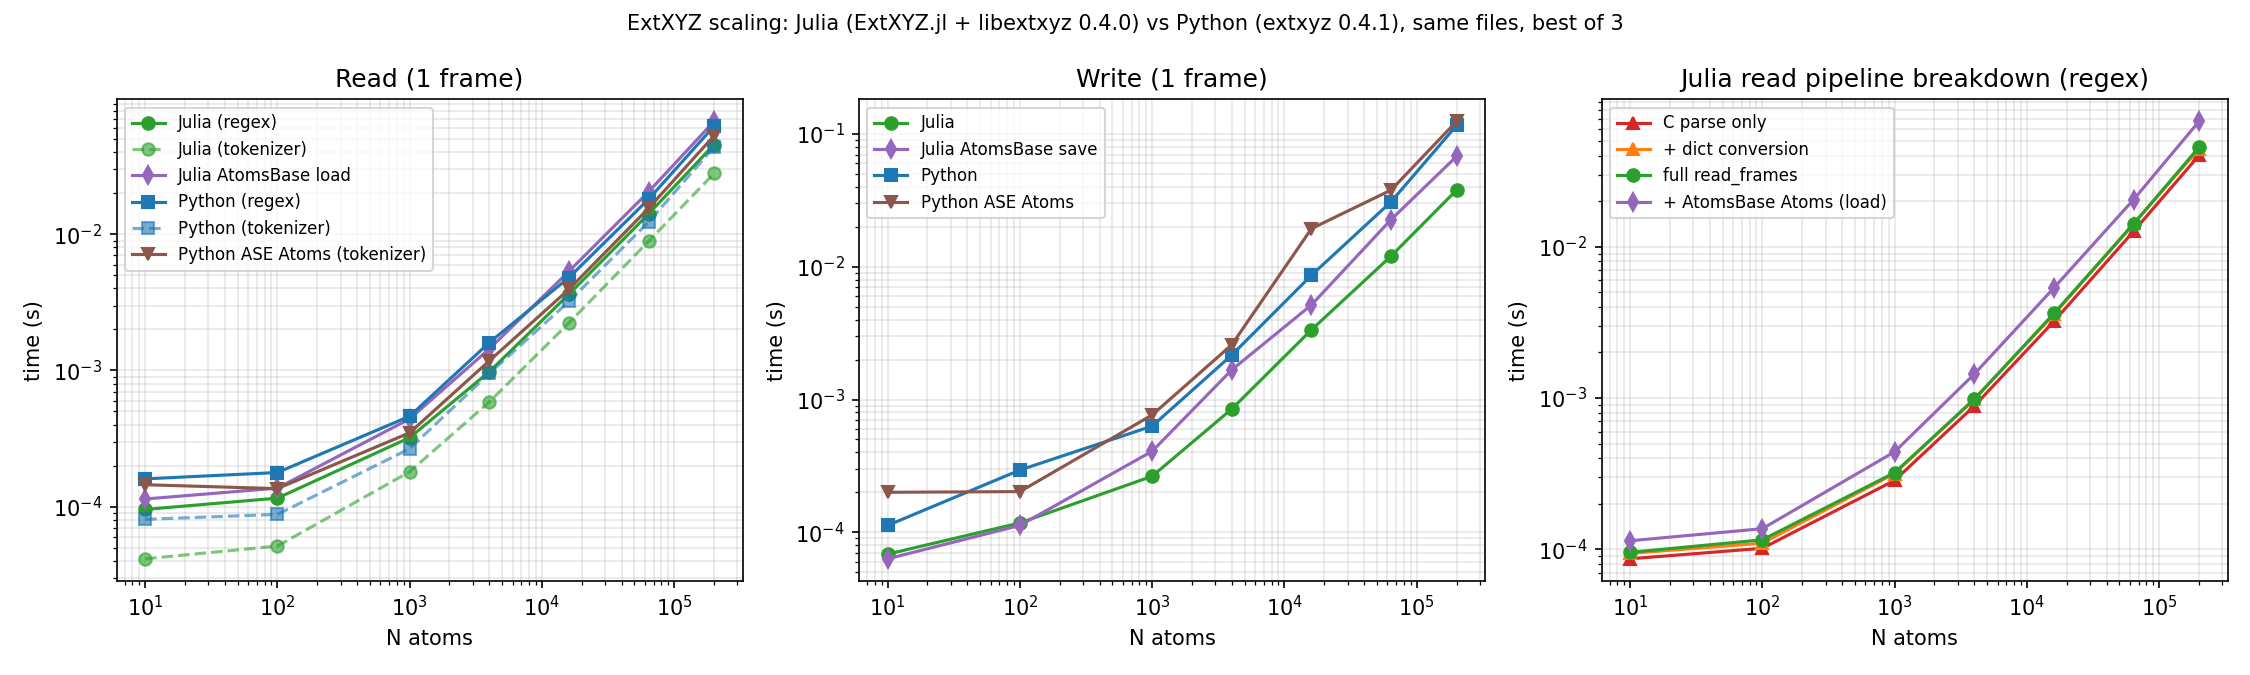
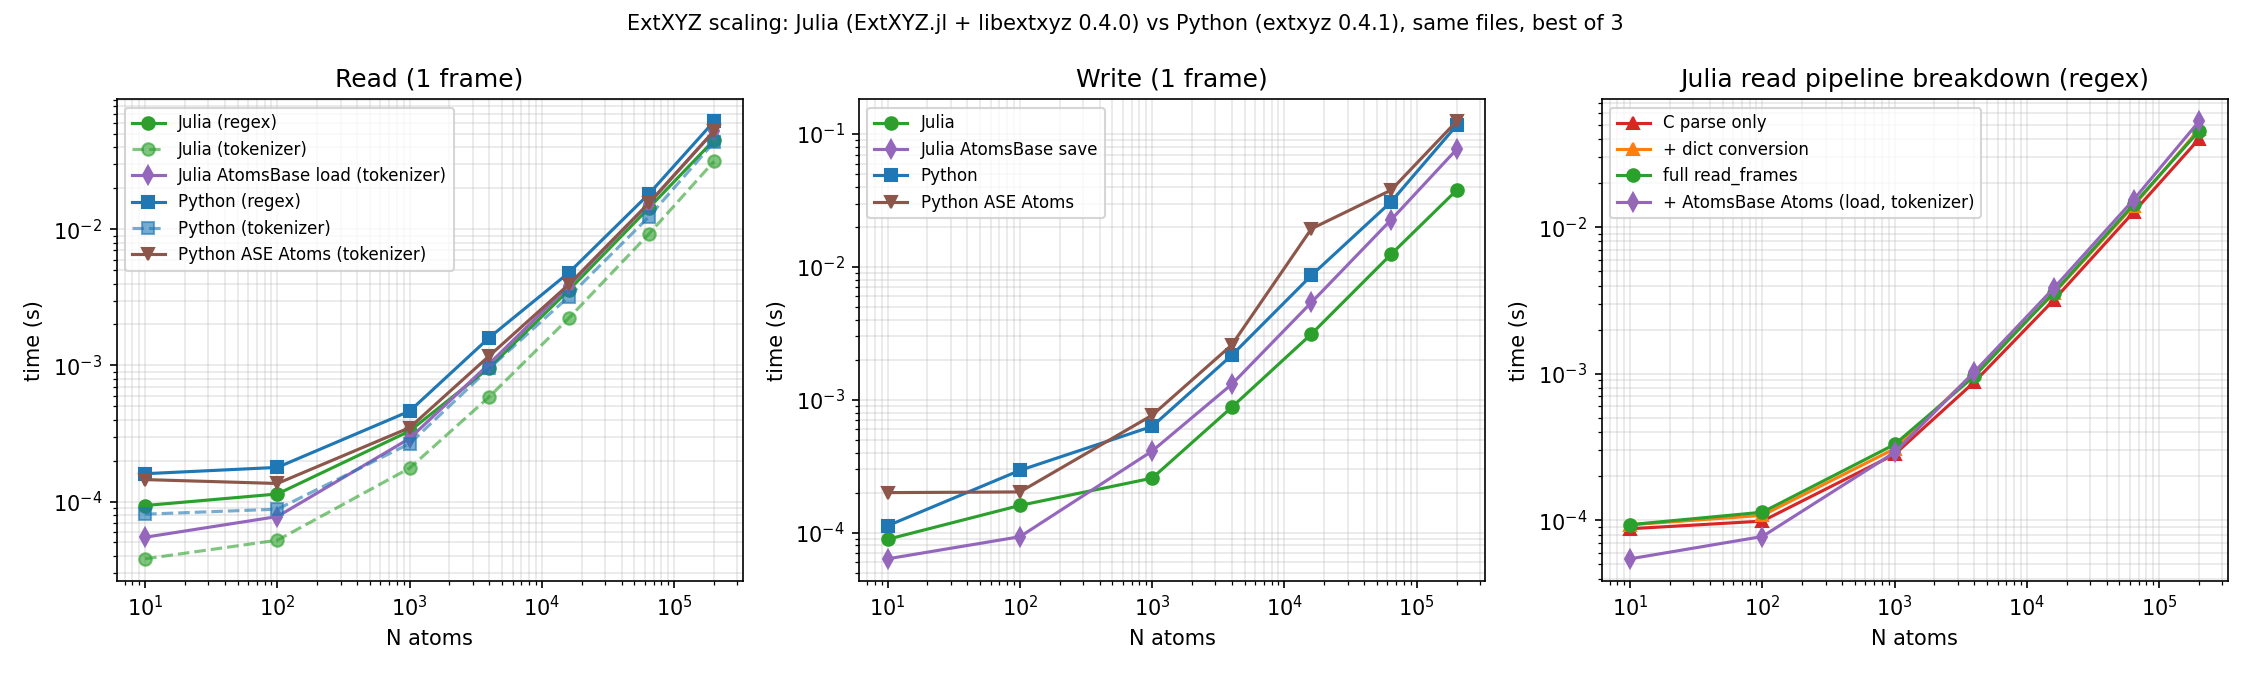
Make the whitespace tokenizer the default read parser
use_regex now defaults to false at every level (read_frame,
read_frames, iread_frames, and hence ExtXYZ.load), matching the
ase-extxyz plugin default on the Python side. The stricter PCRE2
regex parser remains available with use_regex=true. Roughly 1.6x
faster reads by default; benchmark and plot regenerated.

diff --git a/benchmark/plot_scaling.py b/benchmark/plot_scaling.py
@@ -19,7 +19,7 @@ fig, axes = plt.subplots(1, 3, figsize=(15, 4.5))
 ax = axes[0]
 ax.loglog(n, jl["read_regex_s"], "o-", color="C2", label="Julia (regex)")
 ax.loglog(n, jl["read_tok_s"], "o--", color="C2", alpha=0.6, label="Julia (tokenizer)")
-ax.loglog(n, jl["load_s"], "d-", color="C4", label="Julia AtomsBase load")
+ax.loglog(n, jl["load_s"], "d-", color="C4", label="Julia AtomsBase load (tokenizer)")
 ax.loglog(n, py["read_regex_s"], "s-", color="C0", label="Python (regex)")
 ax.loglog(n, py["read_tok_s"], "s--", color="C0", alpha=0.6, label="Python (tokenizer)")
 ax.loglog(n, py["ase_read_s"], "v-", color="C5", label="Python ASE Atoms (tokenizer)")
@@ -44,7 +44,7 @@ ax = axes[2]
 ax.loglog(n, jl["c_parse_s"], "^-", color="C3", label="C parse only")
 ax.loglog(n, jl["dicts_s"], "^-", color="C1", label="+ dict conversion")
 ax.loglog(n, jl["read_regex_s"], "o-", color="C2", label="full read_frames")
-ax.loglog(n, jl["load_s"], "d-", color="C4", label="+ AtomsBase Atoms (load)")
+ax.loglog(n, jl["load_s"], "d-", color="C4", label="+ AtomsBase Atoms (load, tokenizer)")
 ax.set_title("Julia read pipeline breakdown (regex)")
 ax.set_xlabel("N atoms")
 ax.set_ylabel("time (s)")

diff --git a/CLAUDE.md b/CLAUDE.md
@@ -32,7 +32,7 @@ Two source files, two layers:
 - `DictEntry` is a Julia mirror of the C library's linked-list dict struct. `convert` methods translate in both directions between `Ptr{DictEntry}` and the Julia `Dict{String,Any}` frame representation. ABI subtlety: per-atom string columns read from the C library arrive as one contiguous fixed-width NUL-padded buffer (`n_in_row < 0`, cell width `-n_in_row`), while Julia-constructed dicts use the legacy `char**` layout marked by `n_in_row = 0` — both the reader and the C `free_dict` branch on the sign.
 - Reads go through `extxyz_read_ll_opts`, which requires a real (non-NULL) 1024-byte error buffer; `_is_eof_message` distinguishes end-of-file (empty message or all-whitespace natoms line) from genuine parse errors, and `iread_frames` relies on `EOFError` for termination.
 - `__init__` compiles the extxyz key/value grammar once (`_kv_grammar`) for the C parser.
-- Exports: `read_frame`, `read_frames`, `iread_frames` (lazy, Channel-based), `write_frame`, `write_frames`. `write_frames` also accepts a `Channel` for asynchronous writing. Reads take `use_regex::Bool=true` (false = faster tokenizer); writes take `fmt_i`/`fmt_f`/`fmt_b`/`fmt_s` printf-style format overrides via `extxyz_write_ll_fmt`.
+- Exports: `read_frame`, `read_frames`, `iread_frames` (lazy, Channel-based), `write_frame`, `write_frames`. `write_frames` also accepts a `Channel` for asynchronous writing. Reads take `use_regex::Bool=false` (default = fast whitespace tokenizer; `true` = stricter PCRE2 regex parser); writes take `fmt_i`/`fmt_f`/`fmt_b`/`fmt_s` printf-style format overrides via `extxyz_write_ll_fmt`.
 
 **`src/atoms.jl` — AtomsBase layer.** Defines `Atoms{P,Q} <: AbstractSystem{3}` holding two NamedTuples (`atom_data`, `system_data`). Constructors convert from any `AbstractSystem` or from the frame `Dict`; `write_dict` goes back. `ExtXYZ.load`/`ExtXYZ.save` combine the two layers to read/write `Atoms` directly from/to files. Units follow ASE conventions (Å, eV, u; velocity unit is `sqrt(u"eV"/u"u")`). Only types the C layer can represent (integers, floats, strings, and arrays thereof) survive a round-trip; other properties are dropped with a warning. Spatial dimension is hard-coded to 3.
 

diff --git a/README.md b/README.md
@@ -32,9 +32,9 @@ Please open issues/PRs here with suggestions of other packages it would be usefu
 Four key functions are exported: `read_frame()` and `write_frame()` for reading and writing single configurations (snapshots), respectively, and `read_frames()` and `write_frames()` for reading and writing trajectories. Moreover `ExtXYZ.Atoms` provides a datastructure to expose the read configurations in an [AtomsBase](https://github.com/JuliaMolSim/AtomsBase.jl)-compatible manner.
 All read and write functions can work with string filenames, an open `Base.IO` instance or (intended primarily for internal use) a C `FILE*` pointer, stored as a `Ptr{Cvoid}` type.
 
-The read functions accept a `use_regex::Bool=true` keyword: passing `false` selects a faster
-whitespace tokenizer for per-atom lines instead of the default PCRE2 regex parser (the tokenizer
-still validates each field, but is marginally more lenient on numeric formats). The write
+The read functions accept a `use_regex::Bool=false` keyword: by default per-atom lines are
+parsed with a fast whitespace tokenizer that validates each field; passing `true` selects the
+stricter but slower PCRE2 regex parser instead (marginally more rigid on numeric formats). The write
 functions accept C printf-style format-string keywords `fmt_i`, `fmt_f`, `fmt_b` and `fmt_s` to
 override the output format per data type, e.g. `write_frame(file, frame; fmt_f="%21.16f")` for
 full double precision. Malformed input raises an `ErrorException` containing the C parser's
